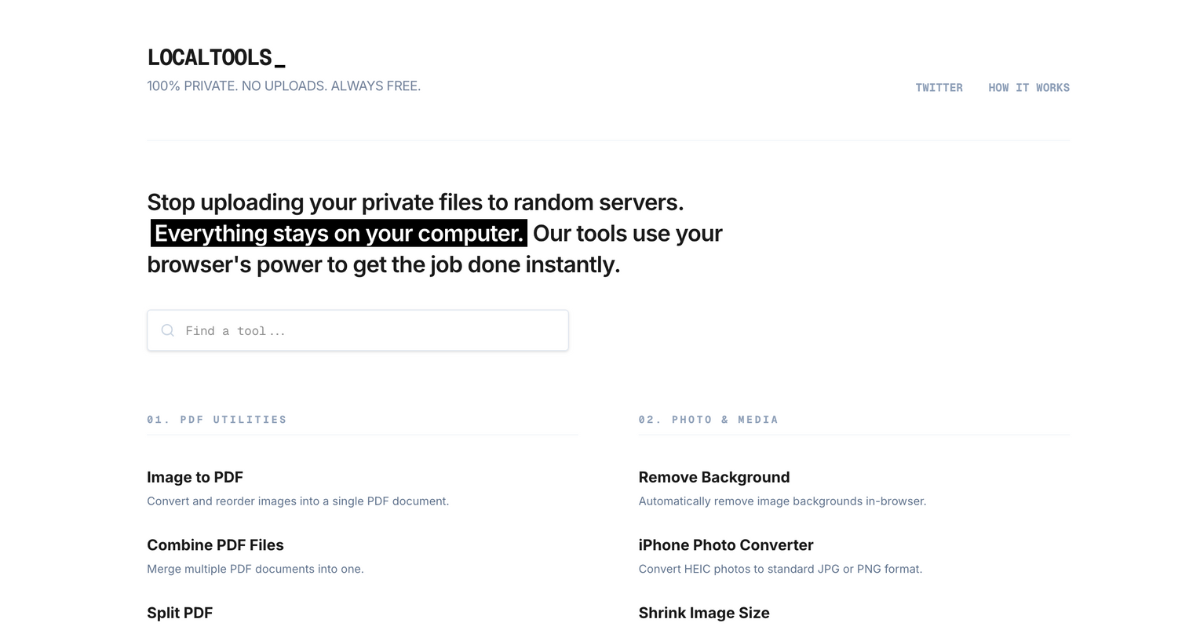
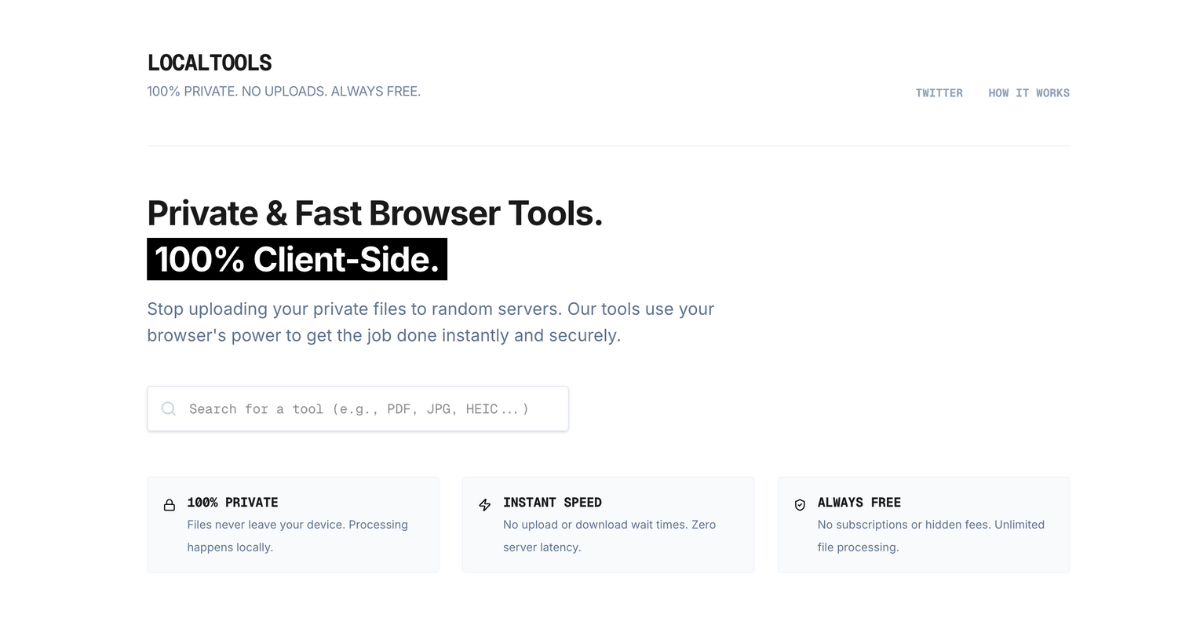
#019

diff --git a/src/routes/+page.svelte b/src/routes/+page.svelte
@@ -1,13 +1,12 @@
-<script lang="ts">
+<!-- <script lang="ts">
   // @ts-nocheck
   import { categories, allTools } from "$lib/config/tools";
-  import { Search, ArrowRight } from 'lucide-svelte';
+  import { Search, ArrowRight, ShieldCheck, Zap, Lock } from 'lucide-svelte';
   import { fade } from 'svelte/transition';
 
   let searchQuery = $state("");
   let isFocused = $state(false);
 
-  // Logic search kết quả
   let filteredResults = $derived(
     searchQuery.trim() === "" 
       ? [] 
@@ -23,31 +22,35 @@
 </script>
 
 <svelte:head>
-  <title>JustLocalTools | Free & Private Online Browser Tools</title>
-  <meta name="description" content="Access a collection of secure, local-first tools for PDF conversion, image editing, and productivity. No servers, no tracking, just local power." />
+  <title>JustLocalTools | Free & Private Online Browser Tools (100% Local)</title>
+  <meta name="description" content="Access a powerful collection of free, high-speed, and 100% private online tools. PDF utilities, image converters, and productivity tools that work entirely in your browser. No file uploads, no server tracking." />
+  <meta property="og:title" content="JustLocalTools | Private & Fast Browser Tools" />
+  <meta property="og:description" content="Stop uploading files to servers. Everything stays on your computer with our local-first PDF and Image tools." />
 </svelte:head>
 
-<div class="max-w-[980px] mx-auto px-0 py-12">
-  <section class="mb-8">
-    <h1 class="text-2xl leading-snug max-w-2xl font-semibold tracking-tight">
-      Stop uploading your private files to random servers.
-      <span class="bg-black text-white px-1 ml-1">Everything stays on your computer.</span> 
-      Fast, Free & Private Browser-based Productivity Tools.
+<div class="max-w-[980px] mx-auto px-4 md:px-0 py-12">
+  <section class="mb-10">
+    <h1 class="text-3xl md:text-4xl leading-tight max-w-3xl font-bold tracking-tight text-[#1a1a1a]">
+      Private & Fast Browser Tools. 
+      <span class="bg-black text-white px-2 inline-block mt-1">100% Client-Side.</span> 
     </h1>
+    <p class="mt-4 text-slate-500 text-lg max-w-2xl">
+      Stop uploading your private files to random servers. Our tools use your browser's power to get the job done instantly and securely.
+    </p>
   </section>
 
-  <div class="mb-16 max-w-md relative">
+  <div class="mb-12 max-w-md relative">
     <div class="relative group">
       <div class="absolute inset-y-0 left-0 pl-3.5 flex items-center pointer-events-none text-slate-300 group-focus-within:text-black transition-colors">
-        <Search size={16} />
+        <Search size={18} />
       </div>
       <input 
         type="text"
-        placeholder="Find a tool..."
+        placeholder="Search for a tool (e.g., PDF, JPG, HEIC...)"
         bind:value={searchQuery}
         onfocus={() => isFocused = true}
         onblur={handleBlur}
-        class="w-full h-11 pl-10 pr-4 bg-white border border-slate-200 font-mono text-[13px] focus:border-black focus:ring-1 focus:ring-black outline-none transition-all rounded-sm shadow-sm"
+        class="w-full h-12 pl-11 pr-4 bg-white border border-slate-200 font-mono text-[14px] focus:border-black focus:ring-1 focus:ring-black outline-none transition-all rounded-sm shadow-sm"
       />
     </div>
 
@@ -57,7 +60,7 @@
         transition:fade={{ duration: 100 }}
       >
         {#if filteredResults.length > 0}
-          <div class="max-h-[300px] overflow-y-auto custom-scrollbar">
+          <div class="max-h-[350px] overflow-y-auto custom-scrollbar">
             {#each filteredResults as tool}
               <a 
                 href={tool.href}
@@ -66,34 +69,59 @@
                 <div class="flex justify-between items-center">
                   <div>
                     <span class="text-sm font-bold text-[#1a1a1a] group-hover:underline underline-offset-4">{tool.name}</span>
-                    <p class="text-[10px] text-slate-400 font-mono uppercase mt-0.5 line-clamp-1">{tool.desc}</p>
+                    <p class="text-[11px] text-slate-400 font-mono uppercase mt-0.5 line-clamp-1">{tool.desc}</p>
                   </div>
-                  <ArrowRight size={12} class="text-slate-200 group-hover:text-black transition-colors" />
+                  <ArrowRight size={14} class="text-slate-200 group-hover:text-black transition-colors" />
                 </div>
               </a>
             {/each}
           </div>
         {:else}
-          <div class="py-6 text-center">
-            <p class="font-mono text-[10px] text-slate-400 uppercase tracking-widest">No tools found</p>
+          <div class="py-8 text-center">
+            <p class="font-mono text-[11px] text-slate-400 uppercase tracking-widest">No tools matching your search</p>
           </div>
         {/if}
       </div>
     {/if}
   </div>
 
-  <div class="grid grid-cols-1 md:grid-cols-2 gap-x-16 gap-y-16">
-    {#each categories as category}
+  <div class="grid grid-cols-1 md:grid-cols-3 gap-6 mb-16">
+    <div class="flex items-start gap-3 p-4 bg-slate-50 border border-slate-100 rounded-sm">
+      <Lock size={18} class="mt-1 text-black" />
       <div>
-        <h3 class="font-mono uppercase text-[11px] font-bold tracking-[0.2em] text-slate-400 mb-8 border-b border-slate-100 pb-2">
-          {category.id}. {category.title}
-        </h3>
-        <ul class="space-y-6">
+        <span class="block font-bold text-sm uppercase font-mono tracking-tight">100% Private</span>
+        <span class="text-xs text-slate-500">Files never leave your device. Processing happens locally.</span>
+      </div>
+    </div>
+    <div class="flex items-start gap-3 p-4 bg-slate-50 border border-slate-100 rounded-sm">
+      <Zap size={18} class="mt-1 text-black" />
+      <div>
+        <span class="block font-bold text-sm uppercase font-mono tracking-tight">Instant Speed</span>
+        <span class="text-xs text-slate-500">No upload or download wait times. Zero server latency.</span>
+      </div>
+    </div>
+    <div class="flex items-start gap-3 p-4 bg-slate-50 border border-slate-100 rounded-sm">
+      <ShieldCheck size={18} class="mt-1 text-black" />
+      <div>
+        <span class="block font-bold text-sm uppercase font-mono tracking-tight">Always Free</span>
+        <span class="text-xs text-slate-500">No subscriptions or hidden fees. Unlimited file processing.</span>
+      </div>
+    </div>
+  </div>
+
+  <div class="grid grid-cols-1 md:grid-cols-2 gap-x-12 gap-y-12 mb-20">
+    {#each categories as category}
+      <div class="border-t border-slate-200 pt-8">
+        <h2 class="font-mono uppercase text-[12px] font-bold tracking-[0.25em] text-black mb-8 flex justify-between items-center">
+          <span>{category.id}. {category.title}</span>
+          <span class="h-[1px] bg-slate-100 grow ml-4"></span>
+        </h2>
+        <ul class="space-y-4">
           {#each category.tools as tool}
             <li>
-              <a href={tool.href} class="group block">
-                <span class="font-bold block group-hover:underline">{tool.name}</span>
-                <span class="text-xs text-slate-500">{tool.desc}</span>
+              <a href={tool.href} class="group block p-4 -mx-4 hover:bg-slate-50 transition-all rounded-sm border border-transparent hover:border-slate-100">
+                <span class="font-bold block group-hover:text-black transition-colors text-base">{tool.name}</span>
+                <span class="text-sm text-slate-500 mt-1 block leading-snug">{tool.desc}</span>
               </a>
             </li>
           {/each}
@@ -101,6 +129,174 @@
       </div>
     {/each}
   </div>
+
+  <article class="border-t border-slate-100 pt-16 pb-12 prose prose-slate max-w-none">
+    <div class="grid grid-cols-1 md:grid-cols-2 gap-12 text-sm text-slate-600 leading-relaxed">
+      <div>
+        <h3 class="text-black font-bold text-lg mb-3">Why choose local browser tools?</h3>
+        <p>
+          Most online converters require you to upload your sensitive documents to their servers. This poses a significant privacy risk. <strong>JustLocalTools</strong> changes that by utilizing modern web technologies like WebAssembly and client-side JavaScript to process your files directly in your browser. Your data never leaves your computer, making it the most secure way to manage your digital tasks.
+        </p>
+      </div>
+      <div>
+        <h3 class="text-black font-bold text-lg mb-3">Professional Quality, Zero Cost</h3>
+        <p>
+          Whether you are converting <strong>HEIC to JPG</strong>, merging complex <strong>PDF documents</strong>, or using AI to <strong>remove backgrounds</strong>, we provide professional-grade quality without the price tag. Our mission is to provide a fast, ad-supported (but non-intrusive), and private alternative to traditional cloud-based utility websites.
+        </p>
+      </div>
+    </div>
+  </article>
+</div>
+
+<style>
+  .custom-scrollbar::-webkit-scrollbar { width: 5px; }
+  .custom-scrollbar::-webkit-scrollbar-track { background: transparent; }
+  .custom-scrollbar::-webkit-scrollbar-thumb { background: #e2e8f0; border-radius: 10px; }
+  .custom-scrollbar::-webkit-scrollbar-thumb:hover { background: #cbd5e1; }
+</style> -->
+
+
+<script lang="ts">
+  // @ts-nocheck
+  import { categories, allTools } from "$lib/config/tools";
+  import { Search, ArrowRight, ShieldCheck, Zap, Lock } from 'lucide-svelte';
+  import { fade } from 'svelte/transition';
+
+  let searchQuery = $state("");
+  let isFocused = $state(false);
+
+  let filteredResults = $derived(
+    searchQuery.trim() === "" 
+      ? [] 
+      : allTools.filter(t => 
+          t.name.toLowerCase().includes(searchQuery.toLowerCase()) || 
+          t.desc.toLowerCase().includes(searchQuery.toLowerCase())
+        )
+  );
+
+  function handleBlur() {
+    setTimeout(() => { isFocused = false; }, 200);
+  }
+</script>
+
+<svelte:head>
+  <title>JustLocalTools | Free & Private Online Browser Tools (100% Local)</title>
+  <meta name="description" content="Access a powerful collection of free, high-speed, and 100% private online tools. PDF utilities, image converters, and productivity tools that work entirely in your browser. No file uploads, no server tracking." />
+  <meta property="og:title" content="JustLocalTools | Private & Fast Browser Tools" />
+  <meta property="og:description" content="Stop uploading files to servers. Everything stays on your computer with our local-first PDF and Image tools." />
+</svelte:head>
+
+<div class="max-w-[980px] mx-auto px-4 md:px-0 py-8 md:py-12">
+  <section class="mb-10">
+    <h1 class="text-3xl md:text-4xl leading-tight max-w-3xl font-bold tracking-tight text-[#1a1a1a]">
+      Private & Fast Browser Tools. 
+      <span class="bg-black text-white px-2 inline-block mt-1">100% Client-Side.</span> 
+    </h1>
+    <p class="mt-4 text-slate-500 text-lg max-w-xl">
+      Stop uploading your private files to random servers. Our tools use your browser's power to get the job done instantly and securely.
+    </p>
+    <br>
+    
+    <div class="max-w-md relative">
+      <div class="relative group">
+        <div class="absolute inset-y-0 left-0 pl-3 flex items-center pointer-events-none text-slate-400 group-focus-within:text-black transition-colors">
+          <Search size={16} />
+        </div>
+        <input 
+          type="text"
+          placeholder="Find a tool..."
+          bind:value={searchQuery}
+          onfocus={() => isFocused = true}
+          onblur={handleBlur}
+          class="w-full h-10 pl-9 pr-4 bg-white border border-slate-200 font-mono text-[13px] focus:border-black outline-none transition-all rounded-sm shadow-sm"
+        />
+      </div>
+
+      {#if isFocused && searchQuery.length > 0}
+        <div 
+          class="absolute top-full left-0 right-0 mt-1 bg-white border border-slate-200 shadow-2xl z-50 rounded-sm overflow-hidden"
+          transition:fade={{ duration: 100 }}
+        >
+          {#if filteredResults.length > 0}
+            <div class="max-h-[300px] overflow-y-auto custom-scrollbar">
+              {#each filteredResults as tool}
+                <a href={tool.href} class="block px-4 py-2 hover:bg-slate-50 border-b border-slate-50 last:border-0 group">
+                  <div class="flex justify-between items-center">
+                    <div>
+                      <span class="text-[13px] font-bold text-[#1a1a1a] group-hover:underline">{tool.name}</span>
+                      <p class="text-[10px] text-slate-400 uppercase line-clamp-1">{tool.desc}</p>
+                    </div>
+                    <ArrowRight size={12} class="text-slate-200 group-hover:text-black" />
+                  </div>
+                </a>
+              {/each}
+            </div>
+          {:else}
+            <div class="py-4 text-center">
+              <p class="font-mono text-[10px] text-slate-400 uppercase">No tools found</p>
+            </div>
+          {/if}
+        </div>
+      {/if}
+    </div>
+  </section>
+
+  <div class="grid grid-cols-1 sm:grid-cols-2 lg:grid-cols-3 gap-x-8 gap-y-10 mb-16">
+    {#each categories as category}
+      <div class="flex flex-col">
+        <h2 class="font-mono uppercase text-[10px] font-bold tracking-[0.2em] text-slate-400 mb-4 pb-2 border-b border-slate-100">
+          {category.id}. {category.title}
+        </h2>
+        <ul class="space-y-3">
+          {#each category.tools as tool}
+            <li>
+              <a href={tool.href} class="group block">
+                <span class="text-[14px] font-bold block group-hover:underline underline-offset-2 tracking-tight">{tool.name}</span>
+                <span class="text-[11px] text-slate-500 line-clamp-1 opacity-80">{tool.desc}</span>
+              </a>
+            </li>
+          {/each}
+        </ul>
+      </div>
+    {/each}
+  </div>
+
+  <div class="grid grid-cols-1 md:grid-cols-3 gap-6 mb-16">
+    <div class="flex items-start gap-3 p-4 bg-slate-50 border border-slate-100 rounded-sm">
+      <Lock size={18} class="mt-1 text-black" />
+      <div>
+        <span class="block font-bold text-sm uppercase font-mono tracking-tight">100% Private</span>
+        <span class="text-xs text-slate-500">Files never leave your device. Processing happens locally.</span>
+      </div>
+    </div>
+    <div class="flex items-start gap-3 p-4 bg-slate-50 border border-slate-100 rounded-sm">
+      <Zap size={18} class="mt-1 text-black" />
+      <div>
+        <span class="block font-bold text-sm uppercase font-mono tracking-tight">Instant Speed</span>
+        <span class="text-xs text-slate-500">No upload or download wait times. Zero server latency.</span>
+      </div>
+    </div>
+    <div class="flex items-start gap-3 p-4 bg-slate-50 border border-slate-100 rounded-sm">
+      <ShieldCheck size={18} class="mt-1 text-black" />
+      <div>
+        <span class="block font-bold text-sm uppercase font-mono tracking-tight">Always Free</span>
+        <span class="text-xs text-slate-500">No subscriptions or hidden fees. Unlimited file processing.</span>
+      </div>
+    </div>
+  </div>
+
+  <article class="prose prose-slate max-w-none text-[13px] text-slate-500 border-t border-slate-100 pt-12">
+    <div class="grid grid-cols-1 md:grid-cols-2 gap-8">
+      <div>
+        <h3 class="text-black font-bold text-sm mb-2">Private by Design</h3>
+        <p>Most online tools require file uploads. <strong>JustLocalTools</strong> works differently: your files never leave your browser. We use local processing power for all PDF and Image tasks.</p>
+      </div>
+      <div>
+        <h3 class="text-black font-bold text-sm mb-2">Zero Latency</h3>
+        <p>By removing the upload and download steps, our tools provide instant results. Perfect for high-security environments or users with sensitive data.</p>
+      </div>
+    </div>
+  </article>
 </div>
 
 <style>

diff --git a/src/lib/components/Footer.svelte b/src/lib/components/Footer.svelte
@@ -1,28 +1,11 @@
-<footer class="max-w-[980px] mx-auto px-0 py-4 border-t border-slate-100 text-slate-400 text-[13px] font-mono w-full">
-  <div class="flex flex-col md:flex-row justify-between gap-12">
-    <div class="max-w-xs">
-      <p class="mb-4">
-        Everything you process here is handled by your own CPU. We do not (and cannot) see your files. No cookies, no trackers, just tools.
-      </p>
-    </div>
-    <div class="grid grid-cols-2 gap-12">
-      <div>
-        <p class="text-black font-bold mb-3 uppercase">Project</p>
-        <ul class="space-y-2">
-          <li><a href="https://x.com/MaxSlashWang" class="hover:text-black transition-colors">Donate</a></li>
-          <li><a href="https://x.com/MaxSlashWang" class="hover:text-black transition-colors">Twitter</a></li>
-        </ul>
-      </div>
-      <div>
-        <p class="text-black font-bold mb-3 uppercase">Legal</p>
-        <ul class="space-y-2">
-          <li><a href="/privacy" class="hover:text-black transition-colors">Privacy Policy</a></li>
-          <li><a href="/terms" class="hover:text-black transition-colors">Terms of Use</a></li>
-        </ul>
-      </div>
-    </div>
+<footer class="max-w-[980px] mx-auto px-4 md:px-0 py-6 mt-auto border-t border-slate-100 w-full text-[10px] font-mono text-slate-400 flex justify-between items-center uppercase font-bold">
+  <div>
+    &copy; {new Date().getFullYear()} JustLocalTools
   </div>
-  <div class="mt-16 pt-4 border-t border-slate-50 text-center">
-    Built by <span class="text-black font-bold">Max</span> © 2026.
+  
+  <div class="space-x-4">
+    <a href="/privacy" class="hover:text-black transition-colors">Privacy</a>
+    <a href="/terms" class="hover:text-black transition-colors">Terms</a>
+    <a href="/how-it-works" class="hover:text-black transition-colors">About</a>
   </div>
 </footer>

diff --git a/src/lib/components/Header.svelte b/src/lib/components/Header.svelte
@@ -1,29 +1,25 @@
-<header class="max-w-[980px] mx-auto px-0 py-8 md:py-12 flex flex-col items-start gap-6 md:flex-row md:justify-between md:items-end border-b border-slate-100 w-full">
+<header class="max-w-[980px] mx-auto px-4 md:px-0 py-4 md:py-5 flex flex-row justify-between items-center border-b border-slate-100 w-full">
   <div>
-    <a href="/" class="text-2xl font-bold tracking-tighter font-mono hover:opacity-80 transition-opacity flex items-center">
+    <a href="/" class="text-xl font-bold tracking-tighter font-mono hover:opacity-80 transition-opacity flex items-center">
       LOCALTOOLS<span class="blink ml-0.5">_</span>
     </a>
-    <p class="text-[11px] md:text-sm text-slate-500 mt-1 uppercase tracking-tight font-medium opacity-90">
-      100% Private. No Uploads. Always Free.
+    <p class="text-[10px] text-slate-400 mt-0.5 uppercase tracking-tight font-medium">
+      100% Private · No Uploads
     </p>
   </div>
   
-  <div class="text-[10px] md:text-xs space-x-5 font-mono uppercase font-bold text-slate-400">
+  <nav class="text-[10px] space-x-4 font-mono uppercase font-bold text-slate-400">
     <a href="https://x.com/MaxSlashWang" target="_blank" rel="noopener noreferrer" class="hover:text-black transition-colors underline-offset-4 hover:underline">Twitter</a>
     <a href="/how-it-works" class="hover:text-black transition-colors underline-offset-4 hover:underline">How it works</a>
-  </div>
+  </nav>
 </header>
 
 <style>
-  /* Hiệu ứng nhấp nháy cho con trỏ _ */
   .blink {
     animation: blink-animation 1s step-end infinite;
     color: #000000;
   }
-
   @keyframes blink-animation {
-    50% {
-      opacity: 0;
-    }
+    50% { opacity: 0; }
   }
 </style>
